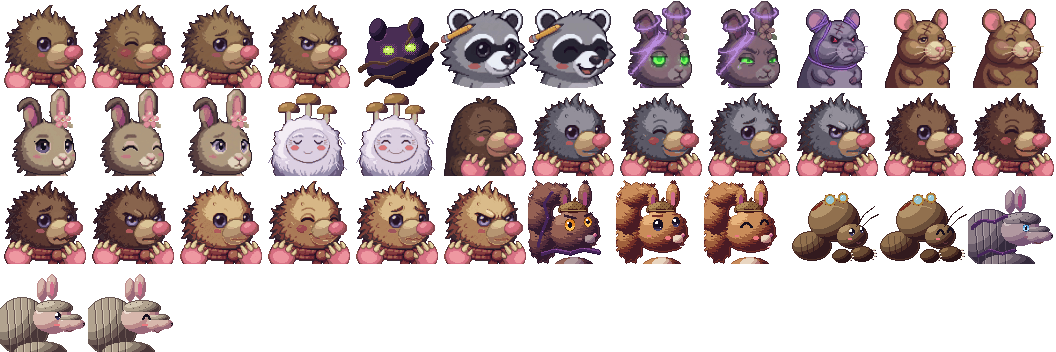
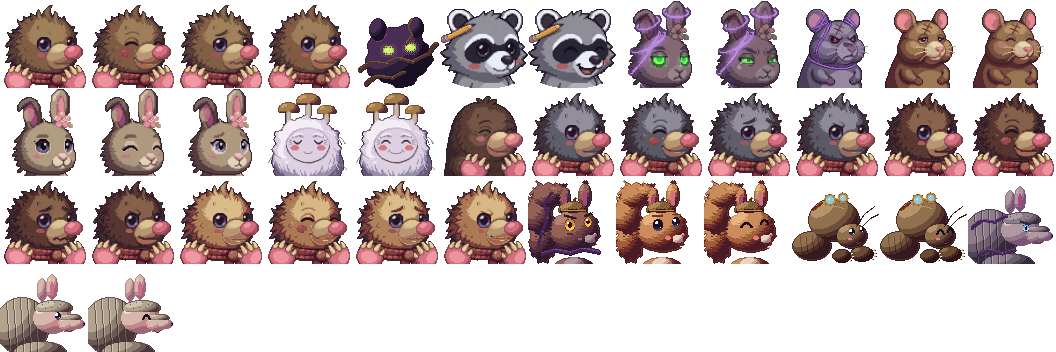
Naïl 결의 표정을 덜 표독스럽게 다시 그림(겁나지만 마음먹은 다정한 결의, 눈 색은 처음부터 연보라라 호박색 고침 뺌). 팔레트를 원래 순서대로 얼려(nail_palette.png) 다른 표정·털빛 칸은 그대로(0117)
Claude-Session: https://claude.ai/code/session_01VNXEyeHwdhsn4oiHYXtNpM

diff --git a/tools/art/ai_portraits.py b/tools/art/ai_portraits.py
@@ -3,7 +3,7 @@
 portraits.py의 sheet()가 부른다. 원본이 있으면 그 칸을 이 그림으로 바꿔 끼우고, 없으면 직접 그린 그림 그대로 둔다.
 PNG를 손으로 고치지 않고, 원본에 할 일을 모두 여기에 둔다(같은 원본 = 같은 결과):
   1. 오른쪽 아래 ✦(Gemini 앱 로고)를 둘레 색으로 메운다(네 꼭짓점 별 모양, 원본 512px에서 늘 같은 자리).
-  2. 고칠 것(눈 속 따뜻한 빛 → 연보라 등)을 원본별 표대로.
+  2. 고칠 것(검은 선 → 자두빛, 빨간 눈 밝히기 등)을 원본별 표대로.
   3. 배경(가장자리와 이어진 밝은 베이지)을 투명하게, 몸과 떨어진 반짝이·티끌은 지운다.
   4. 88×88로 줄이고(덩어리 평균), 같은 캐릭터 표정 넷을 한 팔레트로 맞춘다(디더 없이).
   5. Naïl 털빛 1~3: 털 색만 portraits.FUR_VARIANTS 경사로 옮긴다(목도리·주둥이·앞발·발톱·눈은 그대로).
@@ -86,22 +86,6 @@ def _erase_star(img):
             hole.discard(p)
 
 
-def _eyes_to_lavender(img, boxes):
-    """눈 속 주황·노랑 빛을 보통 표정 눈의 연보라로(결의 표정만 눈동자가 호박색으로 나왔다).
-    털(채도 0.39~0.52·밝기 0.47~0.63)과 가르려고 채도가 높거나(주황) 아주 밝은(노랑) 점만, 흰 반사는 위쪽만 남긴다."""
-    lo, hi = (88, 70, 112), (176, 162, 212)
-    px = img.load()
-    for (x0, y0, x1, y1), white_from in boxes:
-        for y in range(y0, y1):
-            for x in range(x0, x1):
-                h, s, v = _hsv(px[x, y])
-                warm = h < 0.2 and s > 0.12 and (s > 0.55 or v > 0.7)
-                low_white = s <= 0.12 and v > 0.85 and y >= white_from
-                if warm or low_white:
-                    t = min(1.0, max(0.0, (v - 0.4) / 0.6))
-                    px[x, y] = tuple(int(lo[i] + (hi[i] - lo[i]) * t) for i in range(3))
-
-
 def _plum_lines(img, keep):
     """거의 검은 선을 Naïl·포포와 같은 자두빛 선으로(모모 원본만 선이 검정으로 나왔다). 눈 상자 keep 안(눈동자·속눈썹)은 그대로.
     좌표는 원본 1024px 기준. 밝기 순서는 지켜서 선 가장자리의 섞인 점도 자두빛 쪽으로 옮긴다."""
@@ -147,11 +131,13 @@ def _glow_red_eyes(img, boxes):
                     px[x, y] = (int(r * 255), int(g * 255), int(b * 255))
 
 
+# 얼린 팔레트(frozen_palette): 확인을 받은 캐릭터의 팔레트를 파일로 두고, 나중에 다시 그린 표정은 그 팔레트에 맞춰 찍기만 한다.
+# 팔레트를 표정들로 새로 만들면 표정 하나를 다시 그려도 다른 표정의 색까지 바뀌었다(Naïl 결의를 다시 그리자 기쁨의 볼이
+# 진한 빨강이 되고, 털빛 변형의 주둥이 중간 단이 털로 칠해졌다, 0117). Naïl만 얼렸다.
+
 # 원본별로 더 고칠 것(Naïl은 원본 512px 좌표).
-FIXES = {
-    'nail_determined': lambda img: _eyes_to_lavender(
-        img, [((226, 250, 284, 288), 272), ((400, 244, 430, 266), 258)]),
-}
+# 예전 결의 표정은 눈이 호박색으로 나와 연보라로 고쳤다. 다시 그린 결의 표정(눈 색을 프롬프트에 적음)은 처음부터 연보라라 뺐다(0117).
+FIXES = {}
 FIXES['chief_glare'] = lambda img: _glow_red_eyes(img, CHIEF_KEEP[2:])
 for _face in ('normal', 'happy', 'worried', 'tainted_normal', 'tainted_pained'):
     FIXES[f'momo_{_face}'] = lambda img: _plum_lines(img, MOMO_EYES)
@@ -271,7 +257,7 @@ def _shrink(img, mask):
     return out
 
 
-def _shared_palette(cells, vivid_colors, eye_split=True):
+def _shared_palette(cells, vivid_colors, eye_split=True, frozen=None):
     """표정들을 한 팔레트로(디더 없이). 투명은 그대로."""
     strip = Image.new('RGB', (W * len(cells), H), (0, 0, 0))
     for i, c in enumerate(cells):
@@ -303,10 +289,18 @@ def _shared_palette(cells, vivid_colors, eye_split=True):
     if not eye_split:
         is_eye = lambda p: False
     eye = [p for p in opaque if is_eye(p)]
+    if frozen:
+        entries = frozen
+        return _apply_palette(cells, entries)
     split = vivid_colors > 0
     vivid = [p for p in opaque if split and not is_eye(p) and is_vivid(p)]
     rest = [p for p in opaque if not is_eye(p) and not (split and is_vivid(p))]
     entries = colors(eye, EYE_COLORS) + colors(vivid, vivid_colors) + colors(rest, REST_COLORS)
+    return _apply_palette(cells, entries)
+
+
+def _apply_palette(cells, entries):
+    """칸들을 팔레트 entries에 맞춰 찍는다(디더 없이, 가장 가까운 색). 투명은 그대로."""
     pal = Image.new('P', (1, 1))
     flat_pal = [v for c in entries for v in c]
     pal.putpalette(flat_pal + flat_pal[-3:] * (256 - len(entries)))
@@ -447,7 +441,17 @@ def character(name):
         masks.append(mask)
     if fit:
         images, masks = _fit(images, masks, fit)
-    return _shared_palette([_shrink(i, m) for i, m in zip(images, masks)], vivid, name not in NO_EYE_SPLIT)
+    return _shared_palette([_shrink(i, m) for i, m in zip(images, masks)], vivid, name not in NO_EYE_SPLIT,
+                           frozen_palette(name))
+
+
+def frozen_palette(name):
+    """얼린 팔레트 `sources/ai/<이름>_palette.png`(한 줄, 한 점 = 한 색)의 색들. 없으면 None(표정들로 새로 만든다)."""
+    p = os.path.join(SRC, f'{name}_palette.png')
+    if not os.path.exists(p):
+        return None
+    img = Image.open(p).convert('RGB')
+    return [img.getpixel((x, 0)) for x in range(img.width)]
 
 
 def cells(fur_variants):

diff --git a/docs/phase-1-combat-prototype.md b/docs/phase-1-combat-prototype.md
@@ -124,7 +124,7 @@
 | 잠긴 문(0094·0096~0099) | `render.rs`(draw_root_gate·빛 패스), `sunny.rs`(FENCE_H·FENCE_V), `room.rs`(door_anim·tick_doors), `world.rs`(열릴 때 실 풀림) | 팩 나무 울타리 두 겹(가운데 칸만: 남북 39,2 · 동서 40,3, 가로대가 벽에서 벽까지, 팩이 없으면 물든 뿌리) + 가로대를 감는 보라 실, 0.35초에 솟아 닫히고 0.5초에 가라앉으며 실이 풀린다, 어둠 속에서도 실이 빛남 |
 | 어둠 지도·야광버섯·그림자(0095·0100) | `render.rs`(dark_rt·cut_material·light_sources·draw_cast_shadows·draw_mushrooms), `art.rs`(light), `biome.rs` | 빛 자리마다 어둠을 빼는 렌더 타깃, 버섯 빛 64px·세기 0.28(은은하게 넓게), 심층 버섯 14%·뿌리 지대 4%, 빛 반대쪽으로 눕는 그림자 |
 | 해·모닥불 그림자(0102~0106, 시험) | `render.rs`(draw_sun_shadows·shadow_dir·sun_shear·silhouette_material, draw_sorted의 sun), `sunny.rs`(stamp_sun_shadow), `terrain.rs`(Baker::fires), `tuning.rs`(SUN_SHADOW_*·FIRE_SHADOW_*·DECOR_LIFT_*) | 서 있는 것의 모양을 발 줄 축으로 눕혀 렌더 타깃에 모아 한 번에 얹는다. 밝은 곳은 해(오른쪽 아래), 모닥불 곁은 불 바깥쪽(150px, 멀수록 길게, 불이 아래면 더 길게 0104, 어두운 곳은 바깥으로 옅게). 모닥불 돌은 돌만 키운 모양(뒤쪽은 짧게, 0105). 그림자 패스는 몸만(빛·표시·반투명·바닥 것 제외, 밝은 곳은 타원 그림자 끔, 0106). 구운 꽃·조약돌·풀포기는 높이 비율만큼 짧게 |
-| Naïl·포포·모모(돌아옴·물듦)·보리(돌아옴·물듦)·누룩 할매·엄마 초상화 나노바나나(0107~0116) | `tools/art/sources/ai/nail_*.png`, `tools/art/ai_portraits.py`, `tools/art/portraits.py`(sheet), `docs/art/nano-banana-prompts.md` | 표정 넷 원본 → 로고 지우기·결의 눈 색·배경 투명·88×88·한 팔레트(눈 8색 따로)·털빛 셋(주둥이·발톱은 자리로 지킴). 포포: 틀 맞추기(높이 92%)·채도 높은 색 따로. 모모: 검은 선 → 자두빛, 틀 1.22(귀 끝을 칸 맨 위에, 가슴을 칸 아래로), 가슴이 지워지지 않게 아래 끝 번지기 끔. 물든 모모: 같은 틀, 실은 굵게·위로, 눈은 선명한 초록으로 고쳐 그림, 흰빛은 보랏빛으로 물들임. 보리: 시트를 통통하게 고쳐 그림, 틀 그대로. 들쥐 대장: 보리를 고쳐 그림, 눈 팔레트 안 뗌(보라 기운 털), 빨간 눈 밝게. 할매: 시트의 둥근 얼굴 판으로 표정 짝, 둘러싸인 배경 틈 지움. 엄마: Naïl 초상화를 함께 넣고 털을 짙고 매끈하게, 앞발은 따로 고쳐 그림. 다른 캐릭터는 다음 차례 |
+| Naïl·포포·모모(돌아옴·물듦)·보리(돌아옴·물듦)·누룩 할매·엄마 초상화 나노바나나(0107~0117) | `tools/art/sources/ai/nail_*.png`, `tools/art/ai_portraits.py`, `tools/art/portraits.py`(sheet), `docs/art/nano-banana-prompts.md` | 표정 넷 원본 → 로고 지우기·결의 눈 색·배경 투명·88×88·한 팔레트(눈 8색 따로)·털빛 셋(주둥이·발톱은 자리로 지킴). 포포: 틀 맞추기(높이 92%)·채도 높은 색 따로. 모모: 검은 선 → 자두빛, 틀 1.22(귀 끝을 칸 맨 위에, 가슴을 칸 아래로), 가슴이 지워지지 않게 아래 끝 번지기 끔. 물든 모모: 같은 틀, 실은 굵게·위로, 눈은 선명한 초록으로 고쳐 그림, 흰빛은 보랏빛으로 물들임. 보리: 시트를 통통하게 고쳐 그림, 틀 그대로. 들쥐 대장: 보리를 고쳐 그림, 눈 팔레트 안 뗌(보라 기운 털), 빨간 눈 밝게. 할매: 시트의 둥근 얼굴 판으로 표정 짝, 둘러싸인 배경 틈 지움. 엄마: Naïl 초상화를 함께 넣고 털을 짙고 매끈하게, 앞발은 따로 고쳐 그림. Naïl 결의: 덜 표독스럽게 다시 그림, 팔레트를 얼려 다른 칸은 그대로. 다른 캐릭터는 다음 차례 |
 | 웨이브 | `world.rs`, `scenario.rs` | 지금은 개발 시나리오(아레나·웨이브 3부터)에서만. 적을 다 잡으면 1.2초 뒤 다음 웨이브(1C+1S → 2C+1S → 2C+2S → 3C+2S). 명세엔 없지만 5분 플레이 판정을 위해 넣음 |
 
 확인한 것: 데스크톱(Xvfb) 실행 캡처로 렌더 방향·공격 반원·굴파기·히트박스 표시, 헤드리스 Chromium으로 웹 빌드 로드·입력·콘솔(mismatch 없음). 확인 못 한 것: 실제 손맛(판정 1~4), 실기 게임패드, 소리의 실제 느낌(컨테이너에 오디오 장치 없음).

diff --git a/assets/LICENSES.md b/assets/LICENSES.md
@@ -8,7 +8,7 @@
 | `fonts/OFL-ArkPixel.txt` | Ark Pixel 레포 `LICENSE-OFL` | — | Ark Pixel의 OFL 원문. 일본어·간체 폰트와 함께 배포 |
 | `art/nail.png` | 직접 그림. 원본 `tools/art/nail.py` | © 2026 Beardworks | Naïl 스프라이트 v2(idle·walk·attack·hurt·dead·흙더미·그림자 + 흰 실루엣) |
 | `art/nail_fur1~3.png` | 직접 그림. 원본 `tools/art/nail.py`(털 색만 바꿈) | © 2026 Beardworks | 털빛 잿빛·밤빛·모래빛(저널 보상, docs/decisions/0048) |
-| `art/portraits.png` | 직접 그림. 원본 `tools/art/portraits.py`. **Naïl 칸 0~3·18~29, 포포 칸 5~6, 물든 모모 칸 7~8, 들쥐 대장(물든 보리) 칸 9, 보리 칸 10~11, 돌아온 모모 칸 12~14, 누룩 할매 칸 15~16, 엄마 칸 17**은 나노바나나(Google Gemini 이미지 모델)로 사장이 그린 원본 `tools/art/sources/ai/*.png`를 `tools/art/ai_portraits.py`가 칸으로 만든 것(2026-10-26, docs/decisions/0108·0109·0110·0112·0113·0114·0115·0116). 참고 그림은 직접 그린 초상화만 넣었다(팩 그림 없음, 0064). 모든 생성 그림에 SynthID 워터마크가 들어 있다 | © 2026 Beardworks | 대화창 초상화 88×88, 한 줄 12칸(Naïl 털빛 3 × 표정 4 포함, Naïl 표정 4 + 이웃 그림자 + 라쿤 포포 2 + 물든 모모 2 + 들쥐 대장·보리 3 + 돌아온 모모 3 + 누룩 할매 2 + 엄마 두더지 1 + 도토 3 + 수수 2 + 콩이 3) |
+| `art/portraits.png` | 직접 그림. 원본 `tools/art/portraits.py`. **Naïl 칸 0~3·18~29, 포포 칸 5~6, 물든 모모 칸 7~8, 들쥐 대장(물든 보리) 칸 9, 보리 칸 10~11, 돌아온 모모 칸 12~14, 누룩 할매 칸 15~16, 엄마 칸 17**은 나노바나나(Google Gemini 이미지 모델)로 사장이 그린 원본 `tools/art/sources/ai/*.png`를 `tools/art/ai_portraits.py`가 칸으로 만든 것(2026-10-26, docs/decisions/0108·0109·0110·0112·0113·0114·0115·0116·0117). 참고 그림은 직접 그린 초상화만 넣었다(팩 그림 없음, 0064). 모든 생성 그림에 SynthID 워터마크가 들어 있다 | © 2026 Beardworks | 대화창 초상화 88×88, 한 줄 12칸(Naïl 털빛 3 × 표정 4 포함, Naïl 표정 4 + 이웃 그림자 + 라쿤 포포 2 + 물든 모모 2 + 들쥐 대장·보리 3 + 돌아온 모모 3 + 누룩 할매 2 + 엄마 두더지 1 + 도토 3 + 수수 2 + 콩이 3) |
 | `art/critters.png` | 직접 그림. 원본 `tools/art/critters.py` | © 2026 Beardworks | 적(물든 들쥐·생쥐·시궁쥐·다람쥐·청설모)·허수아비·라쿤 포포·물든 모모·돌아온 모모·도토·돌아온 도토·수수·콩이·돌아온 콩이 16×16 + 흰 실루엣. v2 손으로 찍은 자세 |
 | `art/chief.png` | 직접 그림. 원본 `tools/art/chief.py` | © 2026 Beardworks | 튜토리얼 보스 들쥐 대장(물든 모습 8칸)·돌아온 보리(5칸) 32×32 + 흰 실루엣 |
 | `art/illust/*.png`(타이틀 바탕 `title.png`·`title_fog.png` 포함, 0083 — 타이틀은 바탕 그림 없이 코드로만) | 직접 그림(임시). 원본 `tools/art/illust.py` | © 2026 Beardworks(molehill·great_tree·last_bloom·mother_burrow·bori_freed·momo_bloom 바탕은 아래 그림들, CC0·퍼블릭 도메인) | 컷씬 일러스트 9장 640×360(2배 밀도, 일부는 패닝용으로 더 큼). 사람이 그린 그림으로 바꾸면 이 행을 작가·계약으로 고친다(docs/art/cutscene-illustrations.md) |

diff --git a/docs/decisions/0117-nail-determined-redraw-and-frozen-palette.md b/docs/decisions/0117-nail-determined-redraw-and-frozen-palette.md
@@ -1,0 +1,22 @@
+# 0117. Naïl 결의 표정 다시 그리기 + 얼린 팔레트
+
+- 날짜: 2026-10-26
+- 상태: 채택. 0108의 결의 표정을 바꾼다.
+
+## 맥락
+- 사장: "결연한 표정 너무 표독스럽네." 예전 결의는 눈썹이 눈 바로 위까지 깊게 꺾이고 입을 굳게 다물어, 대화창에서 화남으로 읽혔다. 아기 두더지가 처음 혼자 길을 나서는 장면이라 "겁나지만 마음먹은 다정한 결의"가 맞다.
+
+## 결정
+- 보통 표정 하나만 첨부해 다시 그렸다: "brows only slightly lowered … not angry; eyes open, bright and steady … same lavender eye color; a small, firm but soft closed mouth with the corners very slightly up … never fierce or angry". 원본은 1024px(나머지는 512px)지만 틀이 0.1% 안에서 같다.
+- 눈 색을 프롬프트에 적어 처음부터 연보라로 나왔다 → 예전 결의의 호박색 눈 고침(`_eyes_to_lavender`)을 뺐다.
+- **얼린 팔레트**(`frozen_palette`, `tools/art/sources/ai/nail_palette.png`): 확인을 받은 Naïl의 팔레트 64색을 **원래 순서대로** 파일로 두고, 표정들은 그 팔레트에 맞춰 찍기만 한다. 결의만 바뀌고 나머지 표정·털빛 변형 칸은 커밋된 그대로다(바뀐 칸 3·21·25·29).
+
+## 함정
+- **표정 하나를 다시 그려도 팔레트를 다시 만들면 다른 표정이 바뀐다**: 처음엔 네 표정으로 팔레트를 새로 만들었더니 기쁨의 볼이 (157,72,80) → (149,62,61) 진한 빨강이 됐다. 털빛 변형에서는 주둥이 중간 단이 털로 칠해졌다(주둥이 지키기가 색 경계에 기대서, 팔레트가 조금 바뀌어도 갈린다).
+  - 세 표정으로만 만들어도(예전 결의 점이 빠져) 같지 않았다.
+  - 주둥이 지키기를 넓히면(가까운 밝은 덩어리 묶기·세로 채우기) 그늘이 주황 점으로 남아 더 나빴다 → 되돌림.
+- **PIL은 팔레트 순서에 따라 결과가 다르다**: 같은 색 64개라도 순서를 바꾸면 칸마다 2~8점이 달랐다(팔레트에 맞춰 찍을 때 정확한 최근접이 아니라 줄인 정밀도의 캐시를 쓴다). 그래서 예전 코드를 그대로 돌려 순서까지 꺼내 얼렸다.
+
+## 확인
+- 색까지 비교: 커밋된 시트와 다른 칸은 3·21·25·29뿐이다.
+- 헤드리스: 개발 → "오프닝 컷씬"에서 엄마 다음 Naïl의 "응. …다녀올게!"에 새 결의 표정이 나온다. 눈썹이 조금 내려가고 입꼬리가 살짝 올라가, 화남이 아니라 용기로 읽힌다.

diff --git a/docs/art/nano-banana-prompts.md b/docs/art/nano-banana-prompts.md
@@ -49,7 +49,7 @@ Edit the last attached image, the portrait of [이름]. Add only [고칠 것], c
 
 | 캐릭터 | 칸 | 표정(왼쪽이 보통) |
 |---|---|---|
-| Naïl | 0~3 | `calm and neutral` · `happy, eyes closed in a smile` · `worried, brows raised and a small, uneasy mouth` · `determined, brows lowered and a firm mouth` |
+| Naïl | 0~3 | `calm and neutral` · `happy, eyes closed in a smile` · `worried, brows raised and a small, uneasy mouth` · `gentle, brave determination: brows only slightly lowered, eyes bright and steady, a small firm but soft mouth, never fierce` |
 | 모모(돌아옴) | 12~14 | `calm, a little shy` · `happy, eyes closed in a smile` · `worried, ears drooping` |
 | 모모(물듦) | 7~8 | `cold and distant, glowing green eyes` · `pained, glowing green eyes squeezed half shut` |
 | 포포 | 5~6 | `calm and friendly` · `happy, eyes closed in a big smile` |
